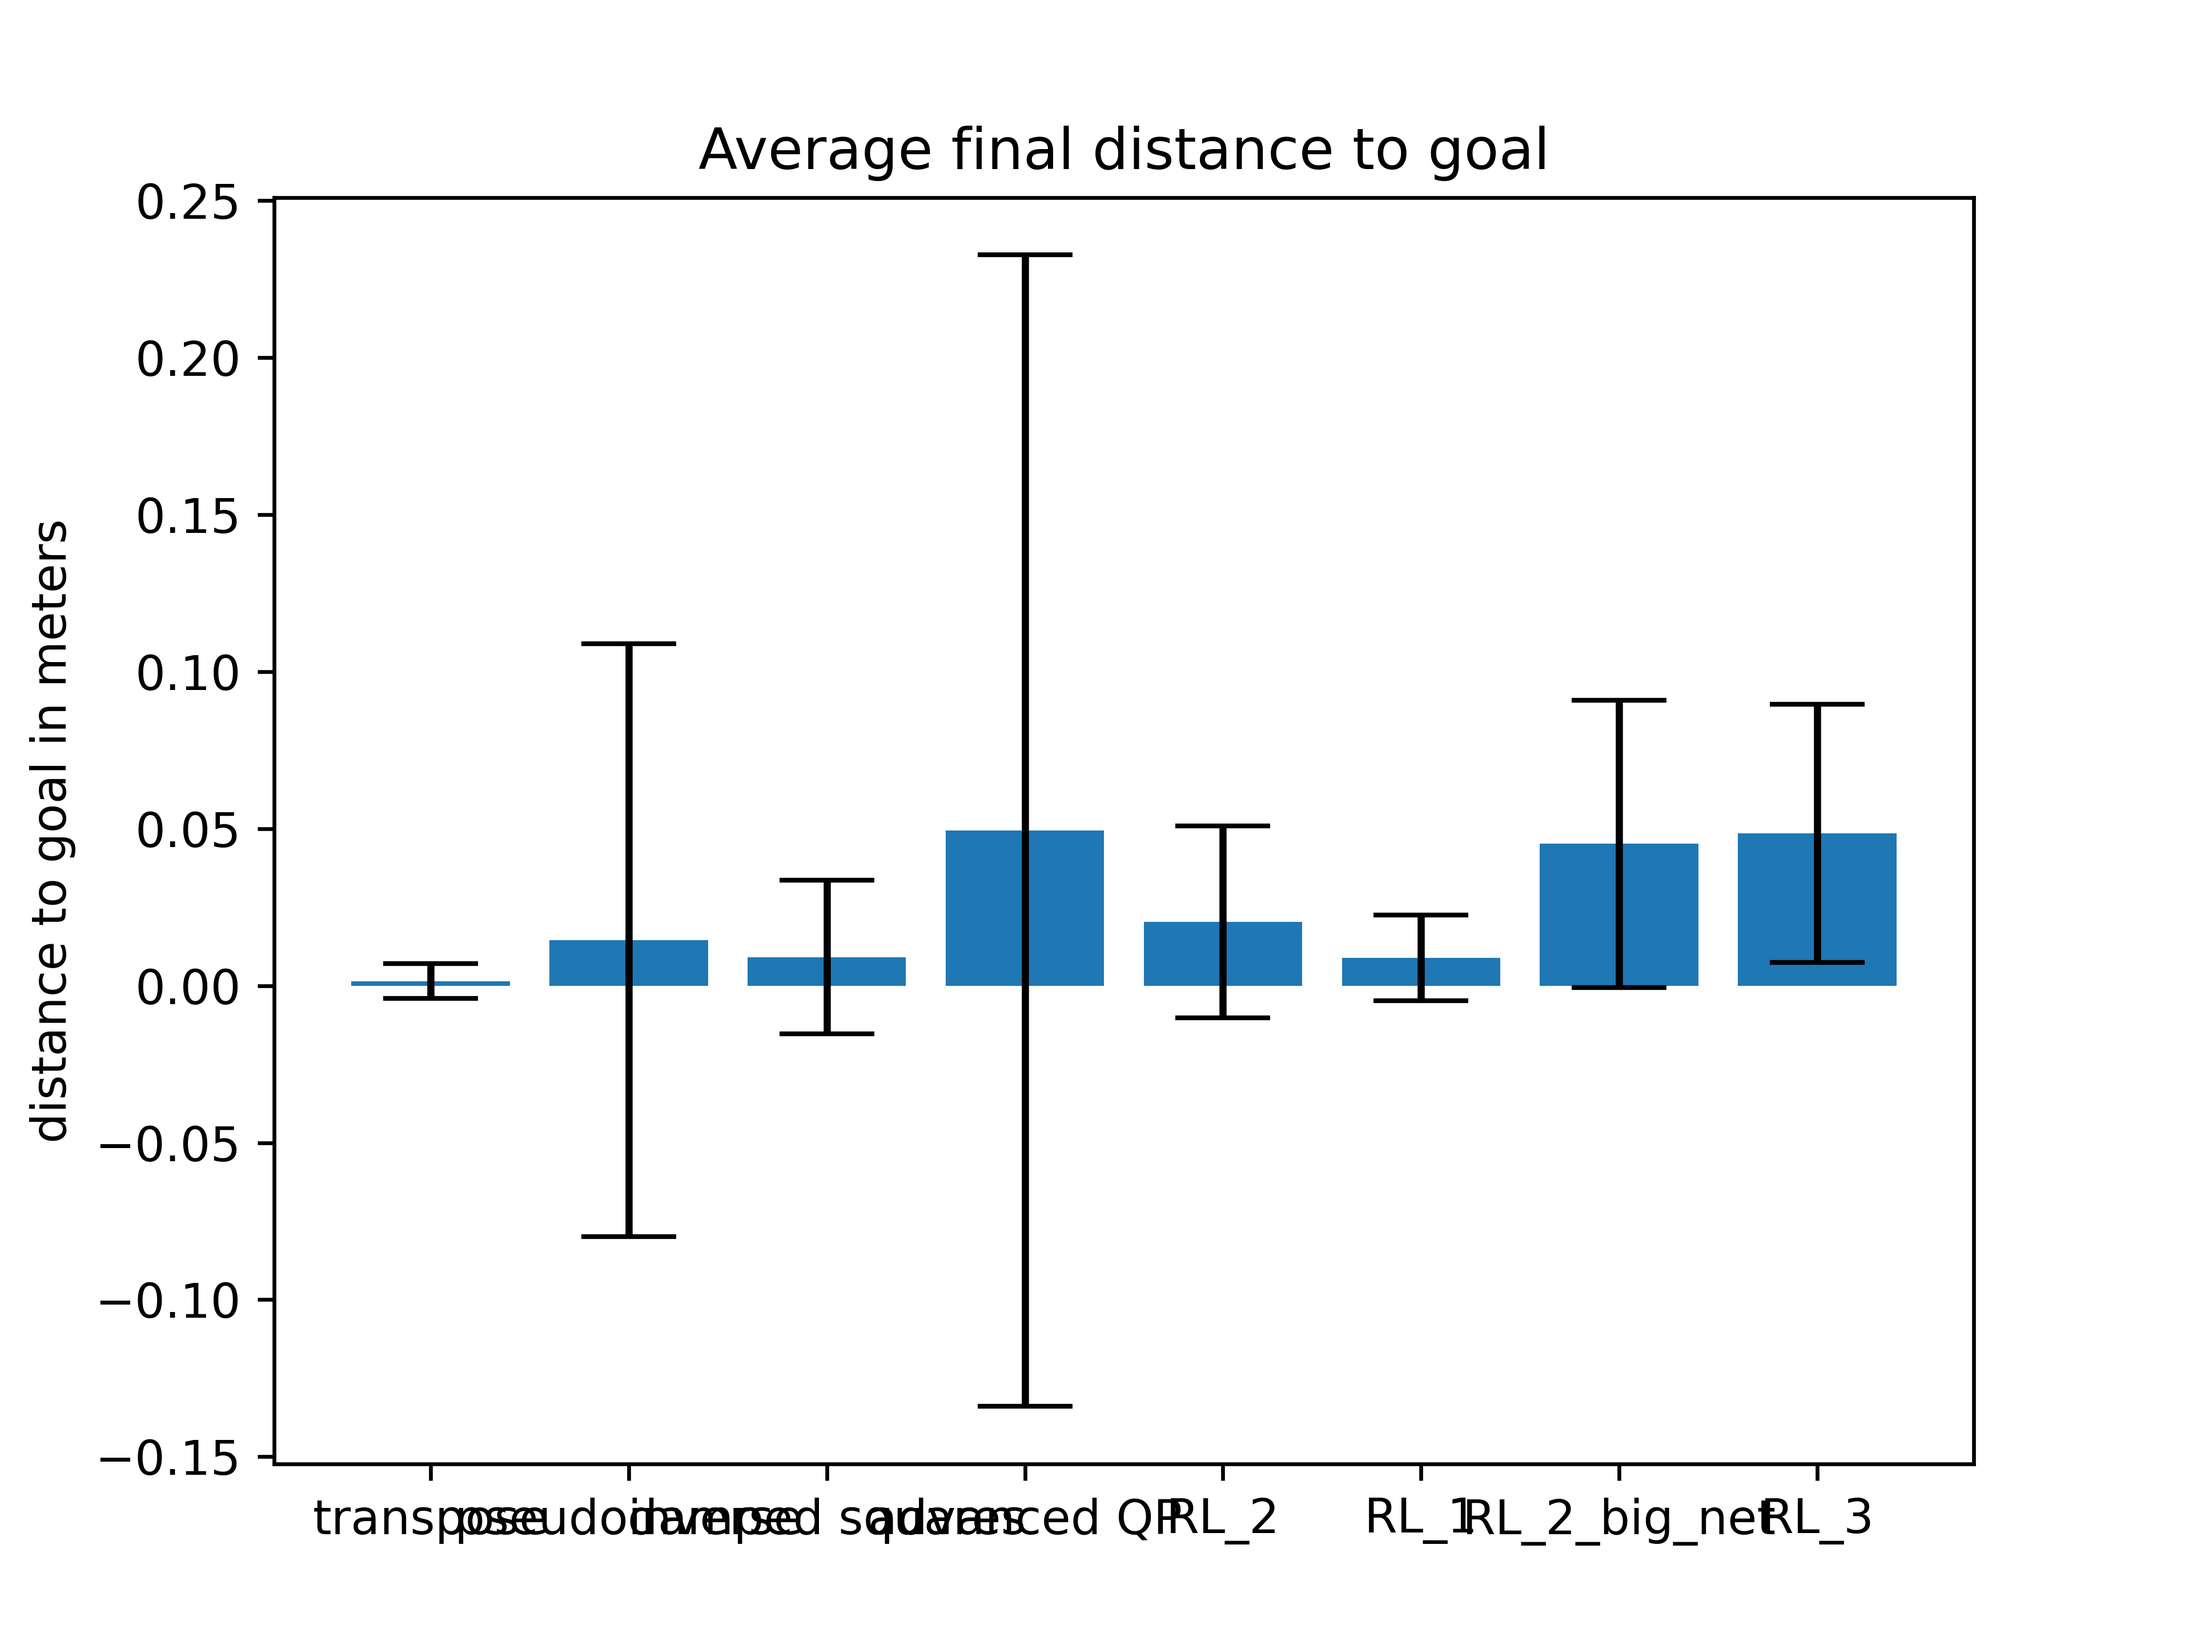
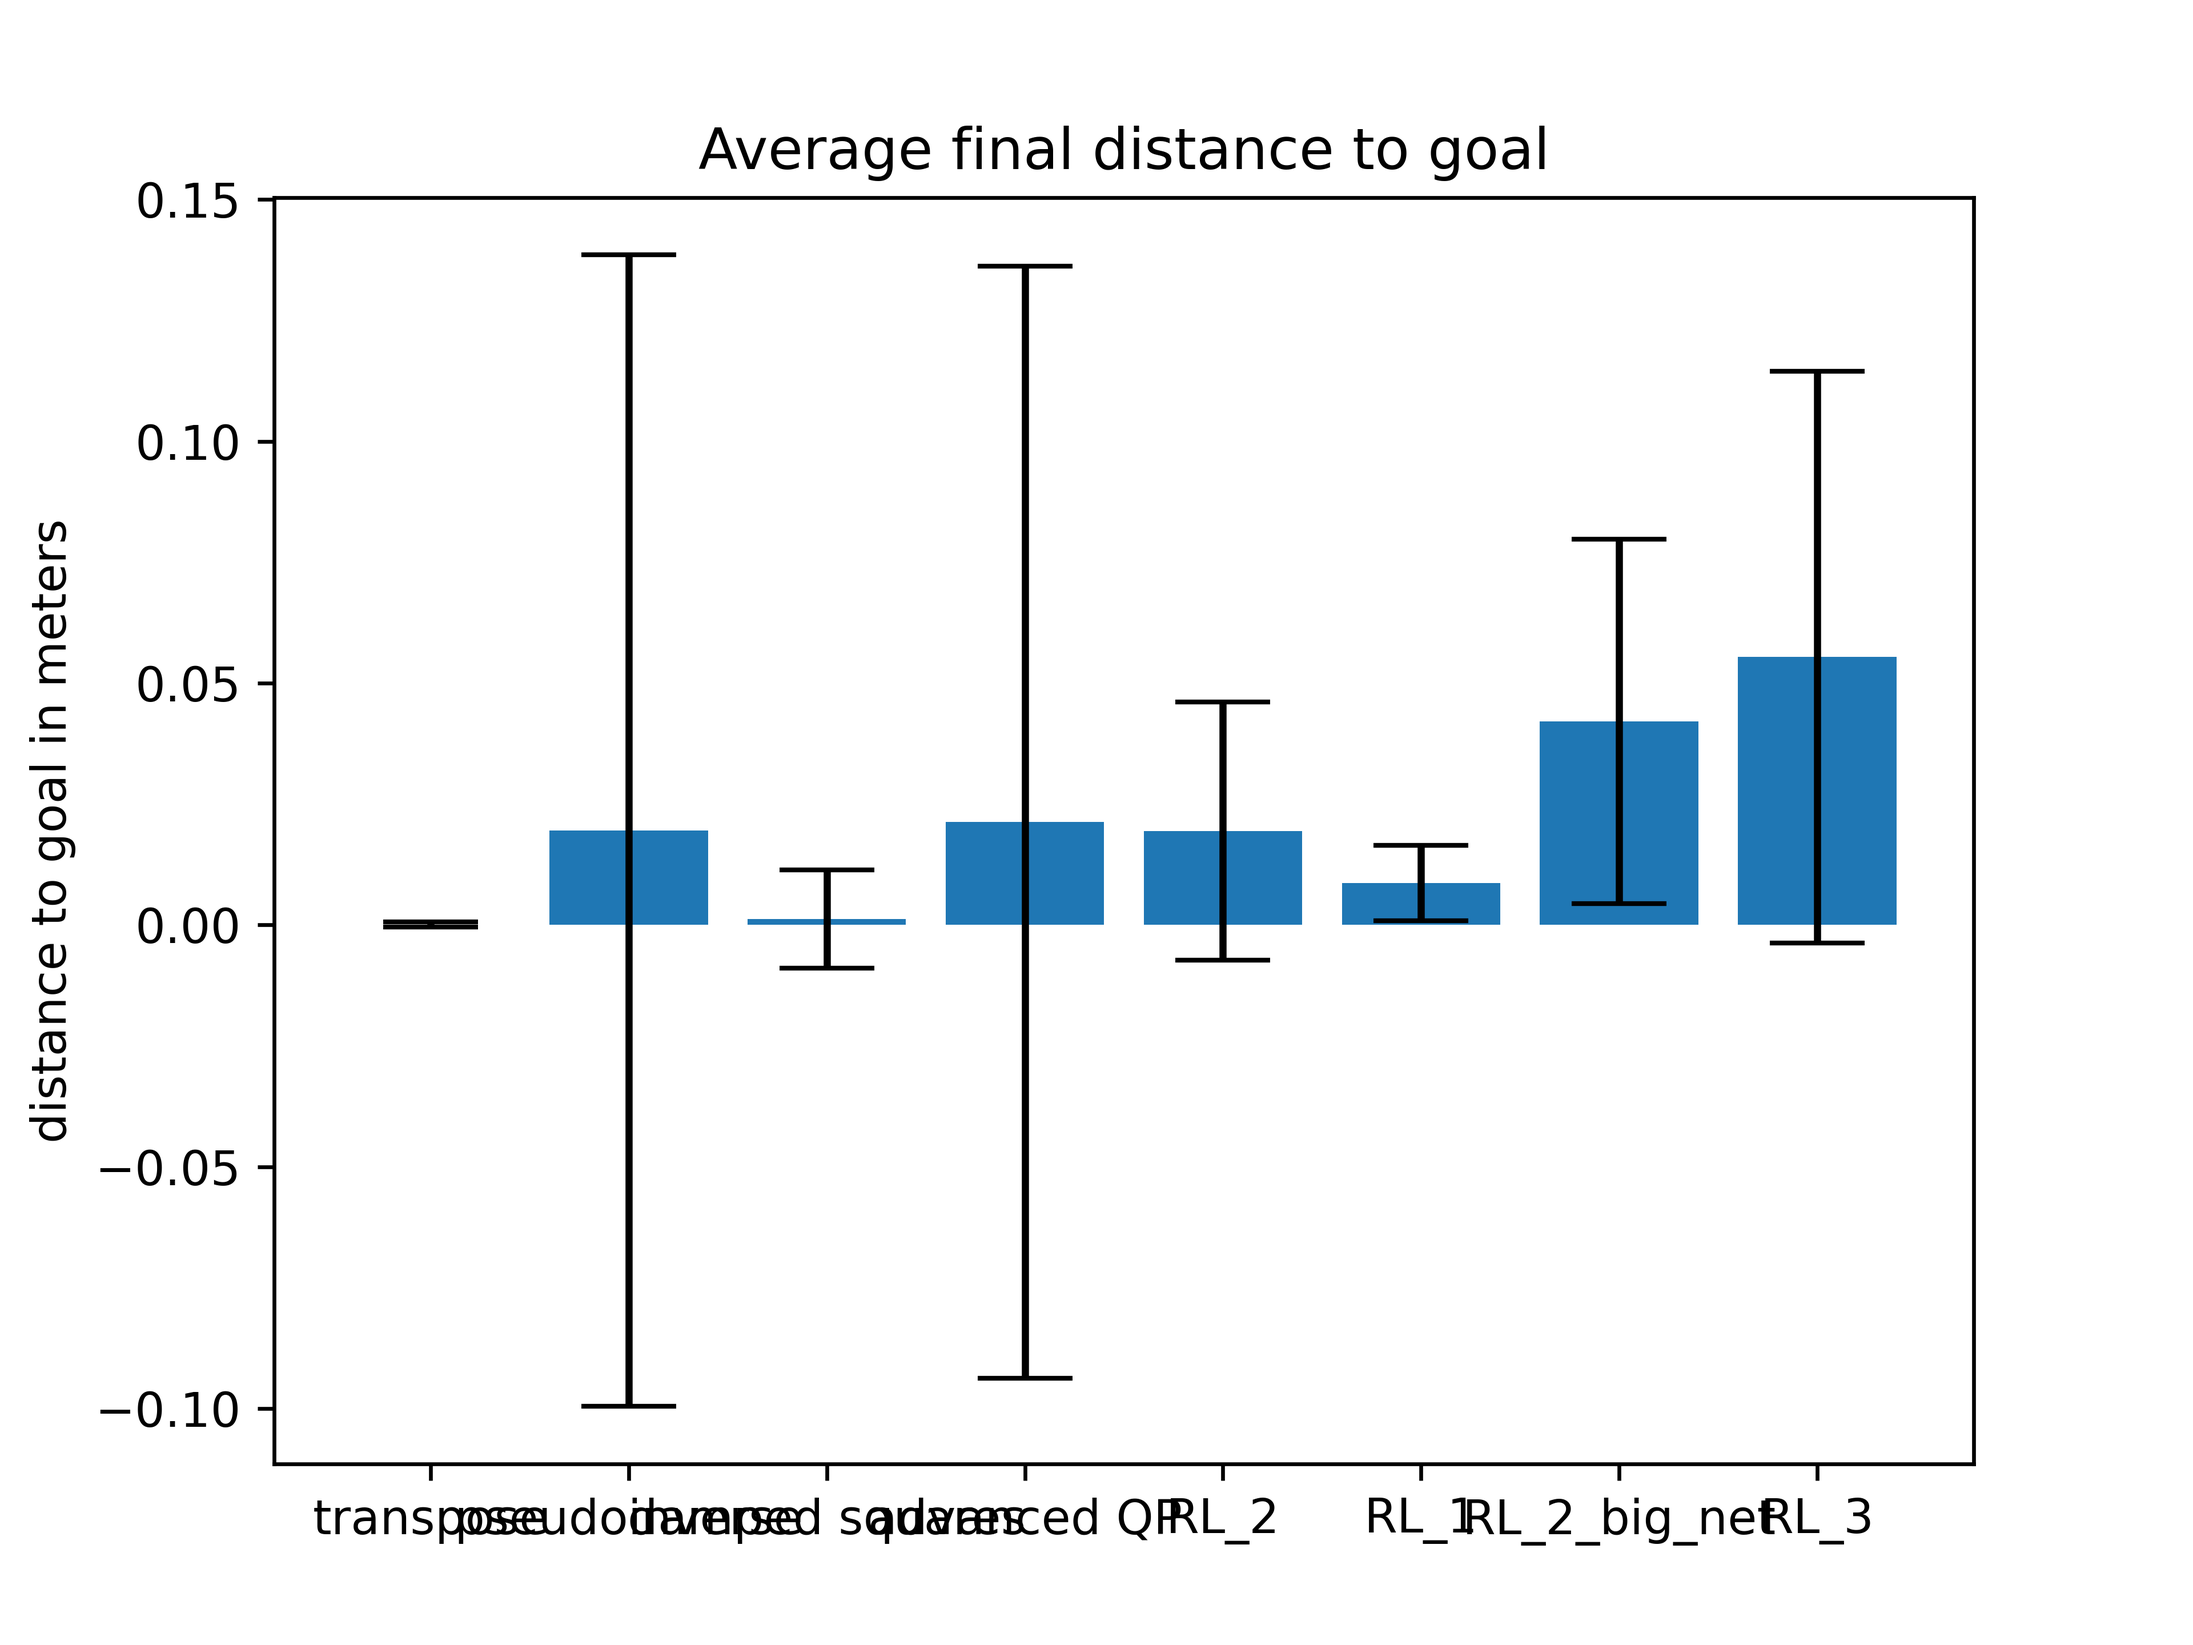
added damping

diff --git a/inverse_kinematics_gymified/inverse_kinematics_gymified/envs/InverseKinematics.py b/inverse_kinematics_gymified/inverse_kinematics_gymified/envs/InverseKinematics.py
@@ -85,8 +85,8 @@ class InverseKinematicsEnv(gym.Env):
                                     dtype='float32'),
         ))
 
-        self.action_space = Box(low=np.array([-1.0] * self.robot.ndof, dtype=np.float32),  \
-                                high=np.array([1.0] * self.robot.ndof, dtype=np.float32), dtype=np.float32)
+        self.action_space = Box(low=np.array([-1.0] * self.robot.ndof + [1.0], dtype=np.float32),  \
+                                high=np.array([1.0] * self.robot.ndof + [10.0], dtype=np.float32), dtype=np.float32)
 
         # TODO enable setting the other one with greater ease
         self.reward_type = 'dense'
@@ -104,19 +104,18 @@ class InverseKinematicsEnv(gym.Env):
                 return np.float32(10.0)
         if self.reward_type == 'dense':
             distance = goal_distance(achieved_goal, goal)
-            if distance > 0.0001:
+            if not error_test(self.robot, self.goal):
                 #reward = -1 * distance + 1 / distance
                 reward = -1 * distance 
             else:
-                #reward = 10000
-                reward = 0
+                reward = 100
             return reward
             
 
 
     def step(self, action):
         action = np.clip(action, self.action_space.low, self.action_space.high)
-        self.robot.forwardKinmViaPositions(action / self.damping)
+        self.robot.forwardKinmViaPositions(action[:-1] / self.damping, action[-1])
         self.n_of_tries_for_point += 1
         obs = self._get_obs()
 

diff --git a/plot_result.py b/plot_result.py
@@ -4,8 +4,9 @@ import matplotlib.pyplot as plt
 
 #file = open('results_clamp_edition', 'rb')
 #file = open('results_7_big', 'rb')
-#file = open('results_NO_clamp_FINAL', 'rb')
-file = open('results_NO_clamp_FINAL_only_neg_dist_rewards', 'rb')
+file = open('results_NO_clamp_FINAL', 'rb')
+#file = open('results_NO_clamp_FINAL_only_neg_dist_rewards', 'rb')
+#file = open('./results_CLAMP_FINAL_only_neg_dist_rewards', 'rb')
 #file = open('results_8_big', 'rb')
 results = pickle.load(file)
 file.close()
@@ -33,6 +34,7 @@ smallest_eigenvals_stds = []
 manip_indexes = []
 manip_indexes_stds = []
 singularities = []
+disasters = []
 
 
 # TODO change this so that it shows standard deviations as well
@@ -64,6 +66,13 @@ for alg in algs:
     std = np.std(final_dists_alg)
     final_dists.append(mean)
     final_dists_stds.append(std)
+
+    # disasters - let's call it distance over 0.2
+    disasters_alg = 0
+    for f in final_dists_alg:
+        if f > 0.2:
+            disasters_alg += 1
+    disasters.append((disasters_alg / nExperiments ) * 100)
 
     # smallest eigenvals
     smallest_eigenvals_alg = np.array(results[alg]['smallest_eigenvals'])
@@ -129,3 +138,10 @@ plt.ylabel('percentage')
 plt.savefig('./result_graphs/singularities.png', dpi=600)
 plt.show()
 
+
+# disasters
+plt.bar(algs, disasters)
+plt.title('Percentage of runs ending in disasters')
+plt.ylabel('percentage')
+plt.savefig('./result_graphs/disasters.png', dpi=600)
+plt.show()

diff --git a/inverse_kinematics_gymified/inverse_kinematics_gymified/envs/forw_kinm.py b/inverse_kinematics_gymified/inverse_kinematics_gymified/envs/forw_kinm.py
@@ -385,7 +385,7 @@ class Robot_raw:
 
 
 
-    def forwardKinmViaPositions(self, thetas):
+    def forwardKinmViaPositions(self, thetas, extra_damping):
 # potential clamping for joint rotation limits
 #   ==> ur10e does not have joint limits, but other robots might
     # offset for j2n6s300
@@ -400,13 +400,13 @@ class Robot_raw:
                 if self.sim == 1:
                     self.motors[i].setPosition(clampTheta(self.joints[i].theta + thetas[i]))
                 else:
-                    self.joints[i].rotate_numerically(clampTheta(self.joints[i].theta + thetas[i]), self.clamp)
+                    self.joints[i].rotate_numerically(clampTheta((self.joints[i].theta + thetas[i]) / extra_damping), self.clamp)
             # no clamp
             else:
                 if self.sim == 1:
                     self.motors[i].setPosition(self.joints[i].theta + thetas[i])
                 else:
-                    self.joints[i].rotate_numerically(thetas[i] + self.joints[i].theta, self.clamp)
+                    self.joints[i].rotate_numerically((thetas[i] + self.joints[i].theta) / extra_damping, self.clamp)
 
         if self.sim == 1:
             self.updateJointsAndJacobian()

diff --git a/plot_returns_over_time.py b/plot_returns_over_time.py
@@ -3,8 +3,11 @@ import matplotlib.pyplot as plt
 import pandas as pd
 
 #df = pd.read_csv('./trained_nets/her-sac-stronger-convergence-rewards-neg-plus-inverse-CLAMP_2021_06_07_19_35_09_0000--s-0/progress.csv')
-df = pd.read_csv('./trained_nets/her-sac-no-manip-rewards_2021_05_25_10_55_18_0000--s-0/progress.csv')
+#df = pd.read_csv('./trained_nets/her-sac-no-manip-rewards_2021_05_25_10_55_18_0000--s-0/progress.csv')
+df = pd.read_csv('./trained_nets/her_sac_ik_gymified_with_manip_rewards_final_5_2021_05_24_22_53_24_0000--s-0/progress.csv')
+#df = pd.read_csv('./trained_nets/her-sac-stronger-convergence-rewards-neg-plus-inverse_2021_06_02_14_36_52_0000--s-0/progress.csv')
 
 df.plot('Epoch', 'evaluation/Average Returns')
+plt.title('Average returns over epoch for reward type 2')
 
 plt.show()
